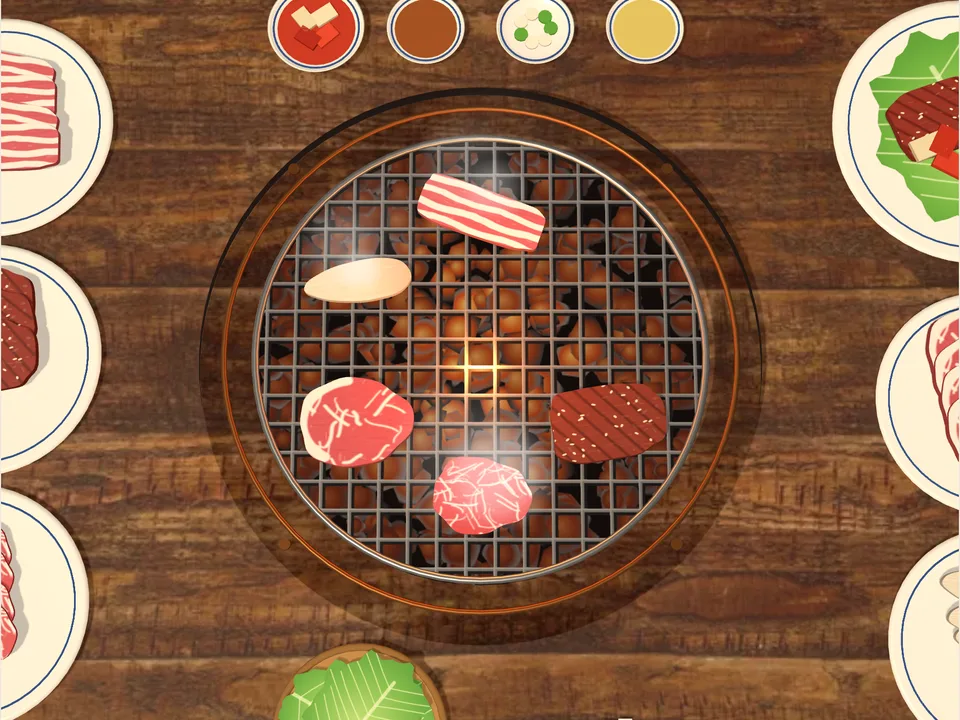
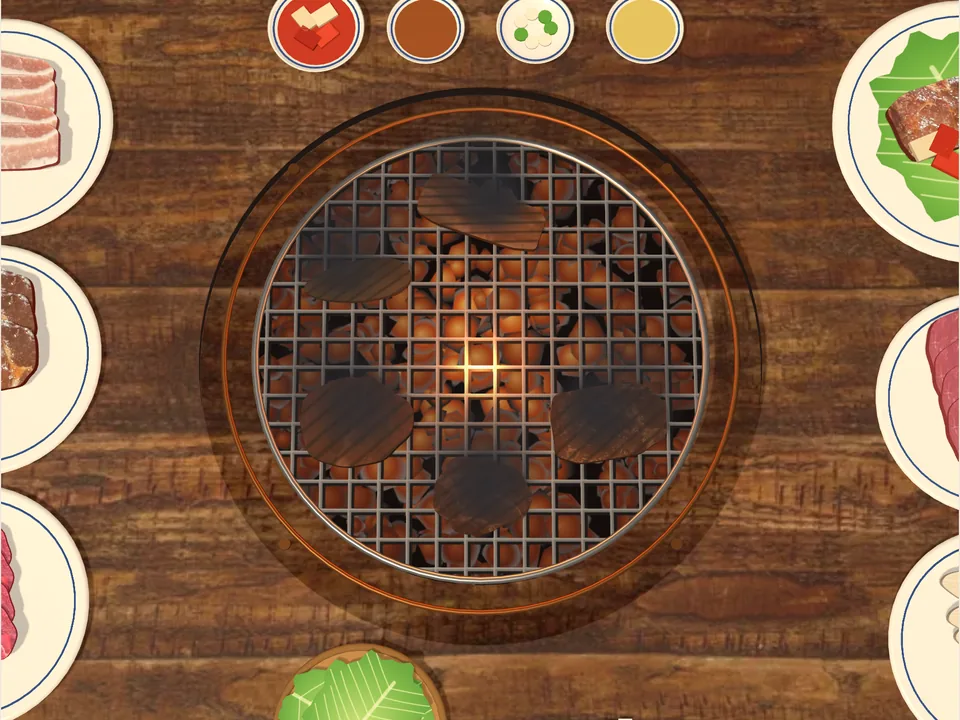
The grill's meat is photographed: four cuts from CC0 pictures, cooked by colour laid over them
Claude-Session: https://claude.ai/code/session_01Uedx1uYtd54DPXXtQh77nN

diff --git a/src/games/grill/view.ts b/src/games/grill/view.ts
@@ -5,6 +5,10 @@ import { TableView, ringMesh, type Spot, type TableSubject } from "../table/view
 import { BEST, BURN, DRESS, EAT, FLIP, LAY, TICK, WRAP, type State } from "./rules";
 import { CHARRED, COAL, CUTS, DT, FILLING, GOOD, OVER, PORTION, RAW, RELISHES, SLOTS, createWorld, down, eatWrap, fill, flip, lay, leaf, relish, shift, step, take, type Happening, type Piece, type World } from "./sim";
 import tableUrl from "./table.webp?inline";
+import bellyUrl from "./belly.webp?inline";
+import ribUrl from "./rib.webp?inline";
+import brisketUrl from "./brisket.webp?inline";
+import neckUrl from "./neck.webp?inline";
 
 export const GRILL_COLORS: [string, string] = ["#c8553a", "#b9b3a4"];
 /** The grate's radius, the brazier's, how far from the middle the six outer places lie, and how high the grate stands. */
@@ -50,6 +54,16 @@ const FLESH: { lean: [Rgb, Rgb]; fat: [Rgb, Rgb] }[] = [
   { lean: [[204, 86, 92], [148, 88, 54]], fat: [[248, 234, 224], [226, 186, 122]] },
   { lean: [[240, 230, 208], [188, 138, 82]], fat: [[250, 246, 234], [212, 168, 108]] },
 ];
+/**
+ * Photographs of the raw flesh of the four meats (CC0, see `public/textures-license.txt`), one to a cut; the mushroom
+ * has none and stays painted. Until a photograph has come the cut is painted as well.
+ */
+const PHOTOS: (HTMLImageElement | null)[] = [bellyUrl, ribUrl, brisketUrl, neckUrl, null].map((url) => {
+  if (!url || typeof Image === "undefined") return null;
+  const photo = new Image();
+  photo.src = url;
+  return photo;
+});
 /** The edge of a cut seen from above, within a square of side 1: an oval or a rounded oblong whose line wanders a little. */
 function outline(cut: number) {
   const random = sequence(cut * 17 + 3),
@@ -82,7 +96,7 @@ function side(cut: number, done: number) {
   pen.fillRect(0, 0, S, S);
   pen.lineCap = "round";
   // The grain of the flesh: fine darker and lighter threads running one way.
-  for (let i = 0; i < 260; i++) {
+  for (let i = 0; i < 260 && !(PHOTOS[cut]?.complete && PHOTOS[cut]!.naturalWidth); i++) {
     const x = random() * S,
       y = random() * S;
     pen.strokeStyle = i % 2 ? "rgba(0,0,0,0.05)" : "rgba(255,255,255,0.06)";
@@ -92,9 +106,28 @@ function side(cut: number, done: number) {
     pen.lineTo(x + 14 + random() * 20, y + (random() - 0.5) * 6);
     pen.stroke();
   }
+  const photo = PHOTOS[cut],
+    shown = !!photo && photo.complete && photo.naturalWidth > 0;
+  if (shown) {
+    // The photograph of the raw flesh, then the colour heat gives it: its hue goes to brown while light and dark stay
+    // where they were, and the whole grows darker.
+    pen.drawImage(photo, 0, 0, S, S);
+    const heat = Math.min(1, done);
+    if (heat > 0) {
+      pen.globalCompositeOperation = "color";
+      pen.fillStyle = css(cooked(...FLESH[cut].lean, 1), heat * 0.9);
+      pen.fillRect(0, 0, S, S);
+      pen.globalCompositeOperation = "multiply";
+      pen.fillStyle = css(mix([255, 255, 255], [196, 160, 124], heat));
+      pen.fillRect(0, 0, S, S);
+      pen.globalCompositeOperation = "source-over";
+    }
+  }
   pen.strokeStyle = pen.fillStyle = fat;
   soft(1.2);
-  if (cut === 0) {
+  if (shown) {
+    // Nothing is painted over a photograph but what the fire does.
+  } else if (cut === 0) {
     // Pork belly: bands of fat and lean along the strip, none quite straight.
     for (const y of [0.1, 0.38, 0.66, 0.92]) {
       pen.beginPath();
@@ -255,6 +288,7 @@ export class GrillView extends TableView<State> {
       top.map = photo;
       top.needsUpdate = true;
     });
+    for (const photo of PHOTOS) if (photo && !photo.complete) photo.addEventListener("load", () => this.skins.size && this.developed(), { once: true });
     this.brazier();
     this.crockery();
     // The shapes of the cuts: an upper face, an under face and the rim between them.
@@ -531,6 +565,14 @@ export class GrillView extends TableView<State> {
     this.add(new T.BoxGeometry(0.16, 0.07, 0.4), china, 1.7, 0.035, 4.5);
   }
   /** The paint of a side of a cut when it is `done` so far; made once for each shade. */
+  /** Paints again every side made before its photograph had come. */
+  private developed() {
+    if (this.disposed) return;
+    for (const [key, texture] of this.skins) {
+      texture.image = side(Math.floor(key / 100), (key % 100) / SHADES);
+      texture.needsUpdate = true;
+    }
+  }
   private skin(cut: number, done: number) {
     const shade = Math.round(Math.min(COAL, done) * SHADES),
       key = cut * 100 + shade;

diff --git a/README.md b/README.md
@@ -348,7 +348,7 @@ CHROMIUM_PATH=/usr/bin/chromium npm run test:e2e
 - **불 켜기 (Lights On)**: 3×3부터 7×7까지의 등불 판. 누르면 그 불과 상하좌우가 뒤집히며, 모든 불을 켜면 성공입니다. 문제는 다 켜진 판에서 무작위로 눌러 만들어 반드시 풀리고, 최소 횟수는 GF(2) 소거로 구합니다(`solve` in `lights/rules.ts`). '라이츠 아웃'으로 알려진 퍼즐을 거꾸로 한 것이며 이름은 일반 이름을 씁니다. 퍼즐 판을 씁니다.
 - **지뢰찾기 (Minesweeper)**: 쉬움 8×8(지뢰 10), 보통 12×10(20), 어려움 18×12(40). 지뢰는 첫 칸을 연 뒤 그 칸과 둘레를 피해 묻힙니다. 깃발 꽂기 버튼(F)으로 깃발을 꽂고, 깃발 수가 맞는 숫자를 누르면 둘레가 한꺼번에 열립니다. 무르기는 없습니다.
 - **과일 합치기 (Fruit Merge)**: 유리 상자에 과일을 떨어뜨려 같은 과일끼리 합칩니다(블루베리 → 체리 → 라임 → 자두 → 귤 → 사과 → 자몽 → 코코넛 → 멜론 → 수박). 실시간이며 일시정지할 수 있습니다. 상자는 `fruit/sim.ts`가 고정 간격으로 계산하고(Three.js·DOM 없음), 화면은 떨어뜨림·합쳐짐·넘침만 수로 보고합니다. '수박 게임'으로 알려진 놀이이며 과일의 종류·순서·그림은 따로 만들었습니다.
-- **고기 굽기 (Meat Grill)**: 숯불 화로를 가운데 둔 고깃집 식탁을 위에서 본 3D 화면입니다. 양옆 접시 다섯 개(삼겹살·양념갈비·차돌박이·목살·새송이버섯)의 고기를 불판 일곱 자리로 **끌어다 놓고**, 눌러서 몇 번이든 뒤집고, 불판 밖으로 끌어내 먹습니다. 접시가 비면 바로 채워집니다. 아래쪽 면만 익으며, 눈금 없이 연기와 고기 색으로 익은 정도를 알아봅니다(옅은 연기 1점, 흰 연기 3점, 양쪽 다 딱 좋으면 6점). 큰 접시에 쌈채소·고기(두 점까지)·양념(김치·쌈장·마늘·고추·기름장)을 올려 **쌈**을 싸 먹으면 고기 점수에 쌈 2점과 양념 한 가지당 1점(세 가지까지)이 붙습니다. **일반 모드**(120초 동안 점수 내기)와 **무제한 모드**가 있습니다. 식탁 상판은 Poly Haven의 CC0 사진 텍스처이고 고기는 코드로 그립니다. 실시간이며 일시정지할 수 있습니다. 모두 46종입니다.
+- **고기 굽기 (Meat Grill)**: 숯불 화로를 가운데 둔 고깃집 식탁을 위에서 본 3D 화면입니다. 양옆 접시 다섯 개(삼겹살·양념갈비·차돌박이·목살·새송이버섯)의 고기를 불판 일곱 자리로 **끌어다 놓고**, 눌러서 몇 번이든 뒤집고, 불판 밖으로 끌어내 먹습니다. 접시가 비면 바로 채워집니다. 아래쪽 면만 익으며, 눈금 없이 연기와 고기 색으로 익은 정도를 알아봅니다(옅은 연기 1점, 흰 연기 3점, 양쪽 다 딱 좋으면 6점). 큰 접시에 쌈채소·고기(두 점까지)·양념(김치·쌈장·마늘·고추·기름장)을 올려 **쌈**을 싸 먹으면 고기 점수에 쌈 2점과 양념 한 가지당 1점(세 가지까지)이 붙습니다. **일반 모드**(120초 동안 점수 내기)와 **무제한 모드**가 있습니다. 식탁 상판은 Poly Haven의 CC0 사진 텍스처이고, 삼겹살·양념갈비·차돌박이·목살은 WordPress Photo Directory의 CC0 사진에서 잘라낸 살코기 사진 위에 익은 색을 입힙니다(버섯은 코드로 그립니다; 출처는 `public/textures-license.txt`). 실시간이며 일시정지할 수 있습니다. 모두 46종입니다.
 
 - **물 나누기 (Water Pouring)**: 실험실의 눈금 없는 비커 세 개. 부으면 비커를 들어 기울여 붓는 모습과 물줄기가 보입니다. 가장 큰 그릇만 가득 차 있고, 부으면 붓는 쪽이 비거나 받는 쪽이 찰 때까지 옮겨집니다. 목표는 둘 중 하나가 무작위로 정해집니다: 큰 그릇 둘에 **절반씩 나누기**, 또는 **어느 그릇에든 정해진 양 만들기**. 그릇의 크기도 할 때마다 무작위이고, 탐색으로 풀리는 문제만 냅니다(`createGame` in `pour/rules.ts`). **최소 횟수**를 함께 구해 오른쪽 판에 부은 횟수와 나란히 보여 주고, 성공하면 견주어 알려 줍니다. 난이도는 최소 횟수로 나뉩니다(쉬움 2–4, 보통 5–7, 어려움 8번 이상). 구슬치기와 같은 퍼즐 판(난이도·힌트·무르기·처음부터·다른 퍼즐·다음 스테이지)을 씁니다.
 - **강 건너기 (River Crossing)**: 강가의 일행을 작은 배로 모두 건너편에 옮깁니다. 사람과 동물은 코드로 빚은 모형입니다. 스테이지 넷: **농부와 짐**(늑대·염소·양배추, 여우·닭·곡식, 고양이·쥐·치즈 가운데 무작위; 농부만 노를 젓습니다), **양과 늑대**(셋씩, 배에 둘), **질투하는 부부**(세 쌍, 배에 둘), **큰 무리**(양·늑대 넷씩이나 다섯씩 또는 부부 네 쌍, 배에 셋). 탈 이를 눌러 태우고 배를 누르면 건넙니다. 규칙을 어기는 수를 두면 무엇이 잘못됐는지와 함께 **실패**로 보여 주고, 무르기나 처음부터로 이어서 합니다. 최소 횟수는 탐색(`solve` in `river/rules.ts`)으로 구해 건넌 횟수와 견줍니다. 일행은 무리의 크기에 맞춰 줄을 지어 서므로(작은 무리는 크게, 큰 무리는 작게) 서로 겹치지 않습니다. 강물이 흐르고, 배 둘레에 물결이 퍼지고, 꼬리가 흔들리며, 실패하면 문제가 된 이들 머리 위에 빨간 느낌표가 뜹니다. 구슬치기와 같은 퍼즐 판을 씁니다.

diff --git a/AGENTS.md b/AGENTS.md
@@ -109,6 +109,7 @@
 - Lights on, minesweeper and fruit merge are drawn flat, as 2D pictures (the user asked, after seeing them in 3D): their views extend `FlatView` (`src/games/flat/view.ts`: one canvas, the frame loop, the pointer in canvas pixels, `data-ready`), without Three.js; do not make them three-dimensional again. A new flat game should extend it rather than copy the falling blocks view. Each keeps the top of its picture clear of the status line and the bottom of the table's small print; minesweeper also keeps clear of the flag button in the lower right corner. Fruit are pictures painted once a kind (`picture` in `fruit/view.ts`) and drawn turned by how far they have rolled.
 - Meat grill (`grill/`, titled 고기 굽기) is a game for one in real time, `live` and `pausable`, on `TableView` in 3D. The user first got a design of our own, then sent a picture of another game's grill table and asked for the graphics and the game to be like it: what was taken is the kind of game (plates of raw meat round a brazier seen from above; lay a piece, turn it as often as wished, take it off) and nothing of that game's look; the table is our own Korean one (round china plates with a blue line, pork belly, marinated rib, brisket, neck, king oyster mushroom, relishes, a basket of lettuce). Everything else the user asked for point by point, so keep each: a piece is laid only by dragging it from its plate to the grill, never by a tap (a tap turns a piece on the grill, or eats what is on the wrap plate; the keyboard may still lay with Enter); an emptied plate is filled again at once (`lay`); there is no gauge (the under side is told only by its smoke: a thin wisp once cooked through, full white while just right, grey when overdone, dark before it burns; the upper side by its colour); a large plate takes a wrap (`leaf`, `fill` with up to two pieces off the grill, `relish`, eaten by `eatWrap`: the pieces' worth, plus 2 for the leaf and 1 a relish up to three when they are worth anything); two modes chosen as `stages` from 새 게임 (by the clock, `SECONDS`, ending with `winner` 0; and without a clock, never ending). `grill/sim.ts` steps the table free of DOM; the view reports `TICK`, `LAY`, `FLIP`, `EAT + points`, `BURN`, `DRESS` and `WRAP + points`. The table's points (`PLACE`, `PLATE`, `LEAVES`, `DISH`, `WRAPPING`) are kept clear of the rules' own move numbers, because an unclaimed tap reaches the screen as a pick.
 - The grill's pictures: the user asked for photographs if they could be had. The table top is one (`grill/table.webp`, Poly Haven's "Wood Table", CC0; keep `public/textures-license.txt` and its place in `scripts/export-html.mjs`). No freely licensed photographs of the cuts were found that could be cut out and shown raw and cooked, so the meat is still painted in code, a shade at a time (`side`, `skin`), on shapes with wandering edges (`outline`). If the user supplies photographs of their own they may replace the painting; do not take pictures whose licence is not free.
+- The grill's meat is now photographed (the user asked to search for pictures and apply them): `belly.webp`, `rib.webp`, `brisket.webp` and `neck.webp` in `src/games/grill/` are squares of raw flesh cut from CC0 photographs of the WordPress Photo Directory (credited in `public/textures-license.txt`); `side` draws the photograph and lays the colour of cooking over it (`color`, then `multiply`), then the browning, the grate marks and the char as before. No free photograph of a sliced king oyster mushroom was found, so it is still painted. A side painted before its photograph has loaded is painted again (`developed`).
 - A view that plays its table in real time must tell a new game by the count of moves going back to nothing (the state before had `ply > 0`, the new one has 0), never by what its own world holds: the screen shows the present state once more before each move it is told of, so a view that emptied its world whenever `ply` was 0 and the world was not fresh lost the first move of every game (the first piece laid on the grill, the first fruit dropped). The grill's browser test lays two pieces first and counts both for this.
 - Tower of Hanoi moves its discs by drag and drop only (the user asked, instead of pressing one peg and then another): `HanoiView` takes the gesture on a peg that holds a disc (`dragStart`), carries the top disc over the pegs on the upright plane they stand in, and on letting go over another peg where it may lie reports the move through `onMove`; anywhere else it goes back. A tap moves nothing. The keyboard still chooses peg and peg.
 - Fruit merge is slippery: the user asked for far less friction (`SLIDE` and `FLOOR` in `fruit/sim.ts`); do not make the fruit grip again.

diff --git a/ROADMAP.md b/ROADMAP.md
@@ -224,6 +224,7 @@
 - [x] 고기 굽기를 식탁 방식으로(접시에서 올리고, 뒤집고, 끌어내 먹기; 3D 식탁, 120초)
 - [x] 고기 굽기의 게이지를 없애고 연기와 고기 색으로 익은 정도를 알림
 - [x] 고기 굽기: 끌어다 놓기로만 올리기, 접시 자동 채움, 쌈 싸기, 일반·무제한 모드, 익는 시간 조금 늘림, 식탁 사진 텍스처(CC0)
+- [x] 고기 굽기의 고기 네 가지를 CC0 사진으로(익는 색은 사진 위에 입힘)
 - [x] 과일 합치기 마찰 낮춤 / 하노이의 탑 끌어다 놓기 / 불 끄기 → 불 켜기 / 첫 화면 상단 바 제거와 제목 변경 / 게임 설명 창 열림 애니메이션
 - [x] 하노이 원판 구멍과 끌어 올려 빼기 / 설명 창 느리게 열림, 안내 문구 삭제 / 조준선 점선(알까기·카롬 검정, 포켓볼 흰색) / 인디언 포커 버튼 이름과 자리 고정 / 체크·장군 큰 글씨
 - [x] 조준선을 짧은 둥근 점으로 / 하노이는 다른 기둥 어디든 성공 / 체크메이트·승리·패배·GOAL 문구, 잡았다 문구 통일 / 게임 결과 창 모두 끔(당분간)
